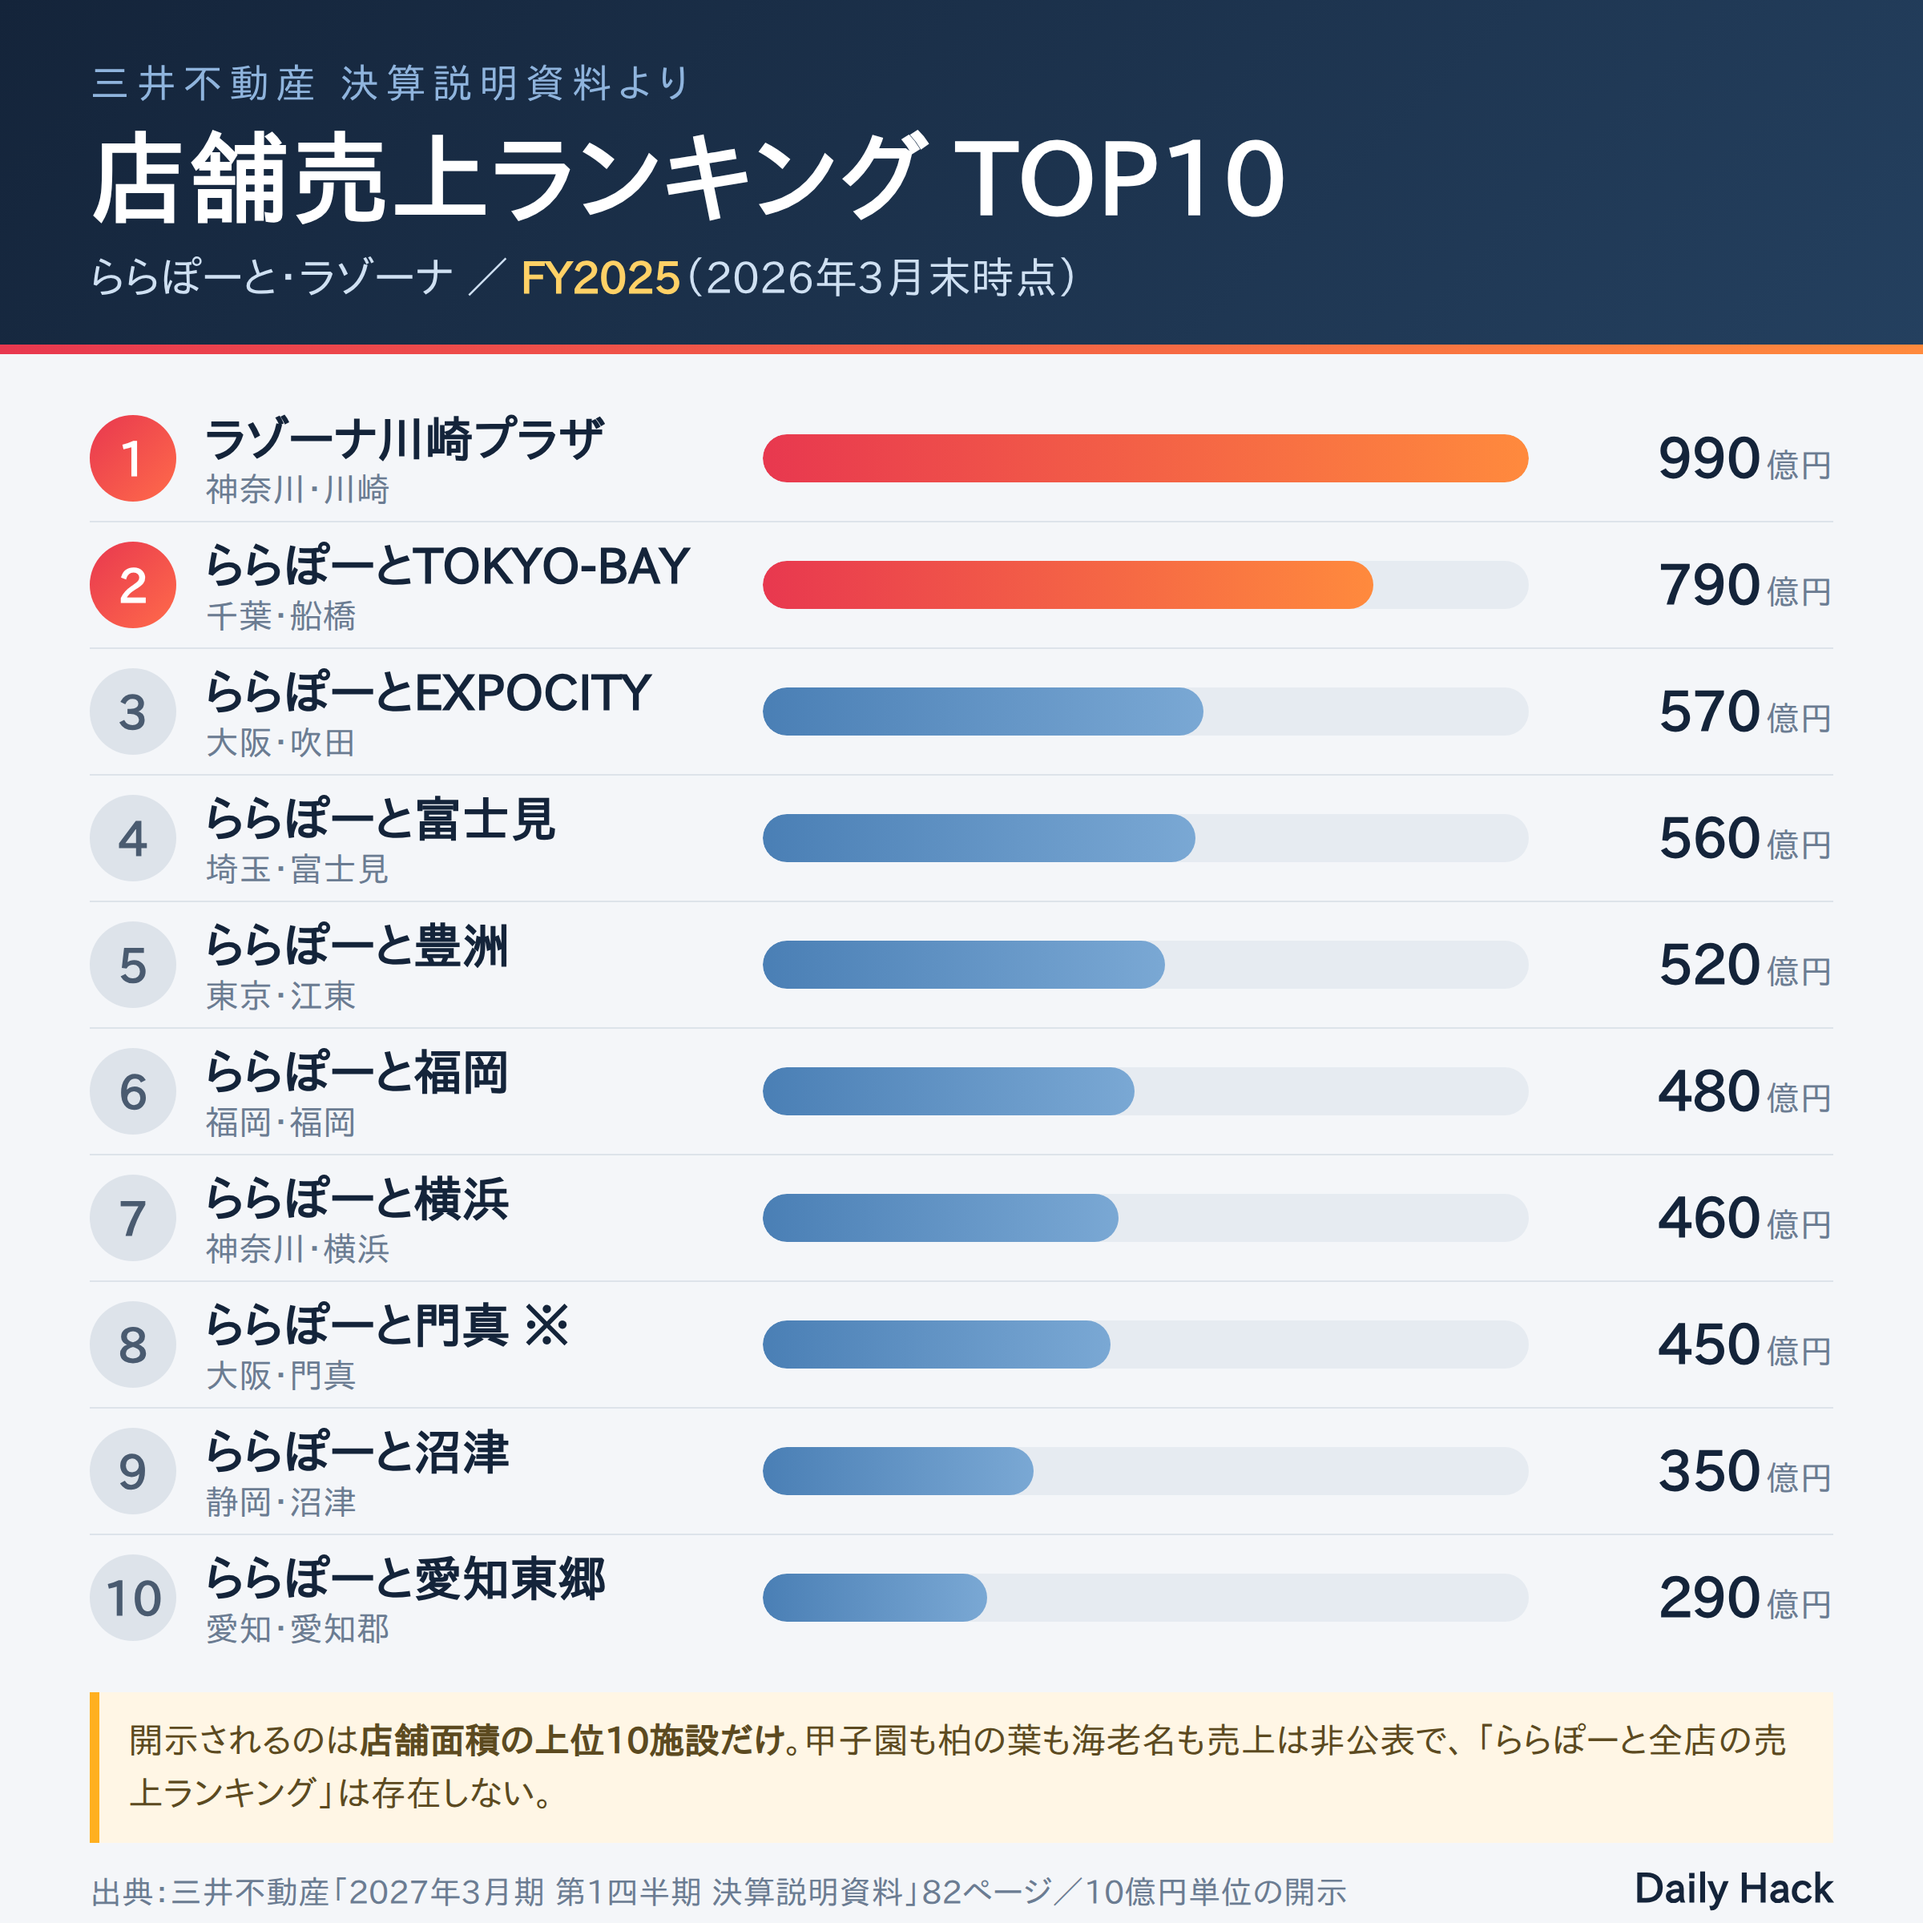
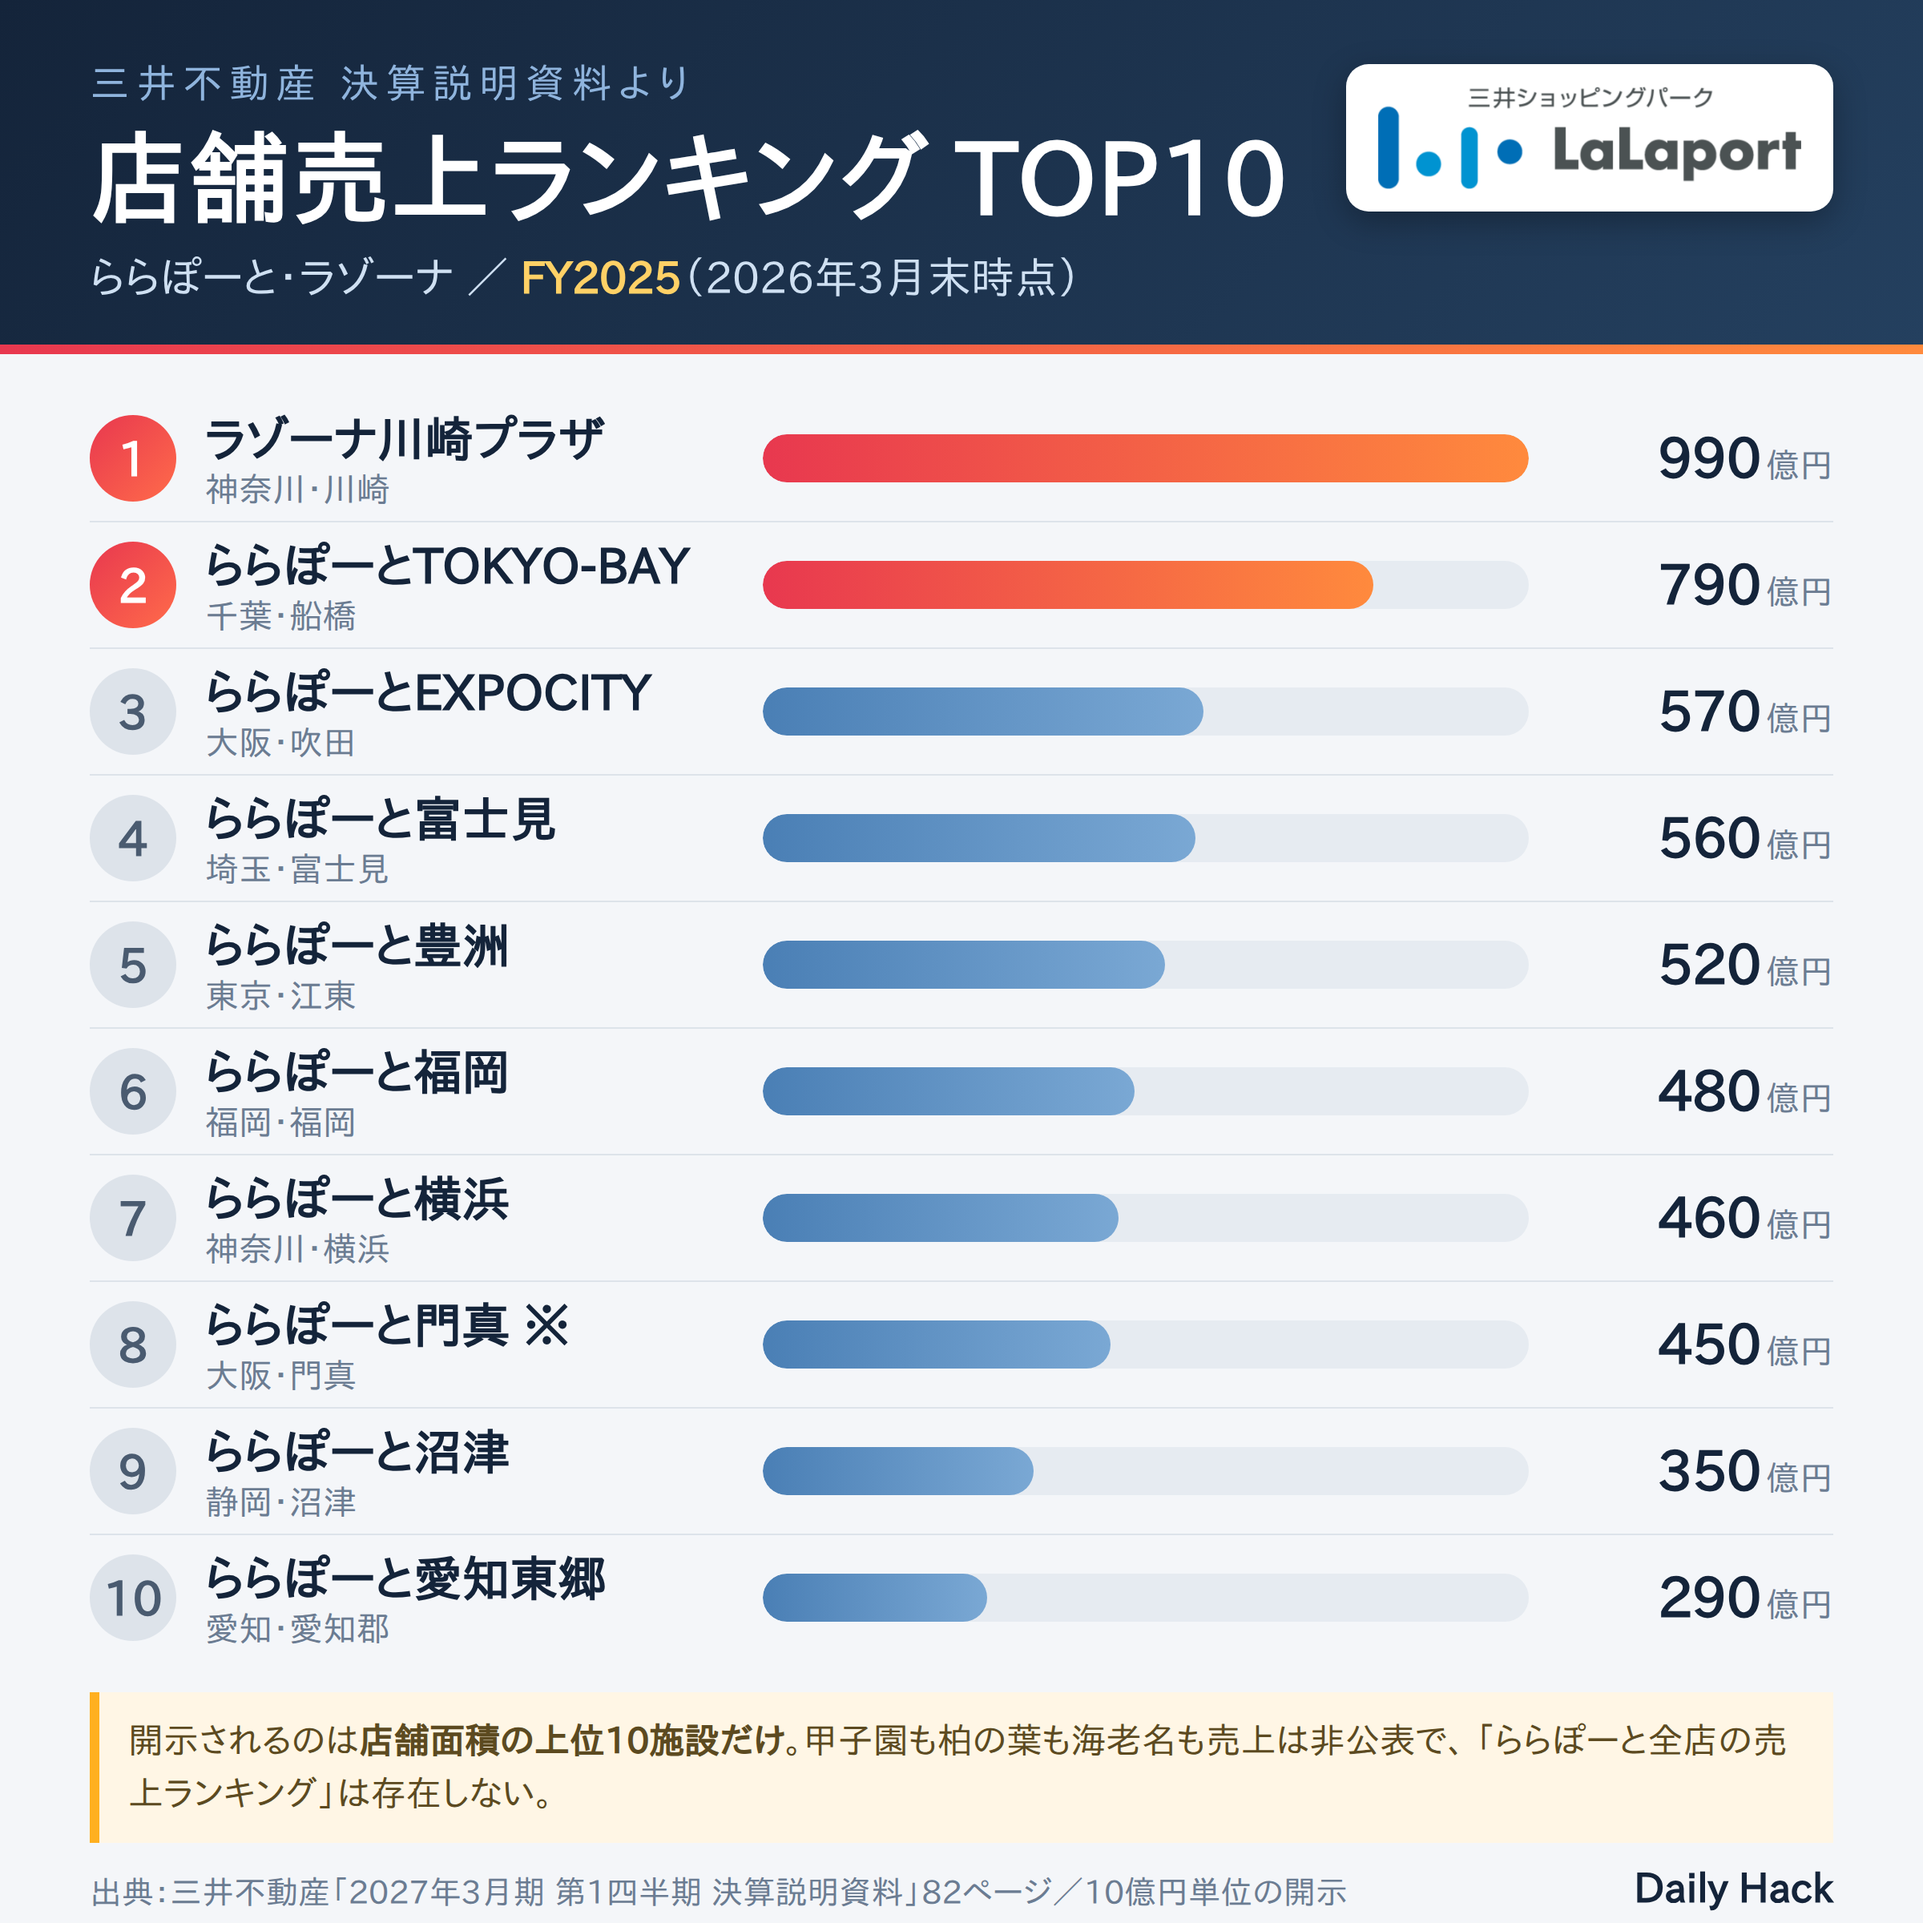
feat: ランキング画像に三井ショッピングパーク LaLaport ロゴを配置
利用者から提供された公式ロゴ画像を使用。周囲の余白（900x600 のうち
内容は 150,227-749,372）を除去した 600x146 版を作り、濃色ヘッダ上でも
成立するよう白カードに載せて右上に配置した。

再生成できるよう、元画像と生成元 HTML、レンダラも残す。

Claude-Session: https://claude.ai/code/session_01H2JQqdMCeKNiMVUTrAyX2t

Changed region(s): [[0.6875, 0.0312, 0.9688, 0.125]]

diff --git a/scripts/social/lalaport-guide-2026/ranking.html b/scripts/social/lalaport-guide-2026/ranking.html
@@ -16,6 +16,14 @@
     content: ""; position: absolute; left: 0; right: 0; bottom: 0;
     height: 6px; background: linear-gradient(90deg, #e8384f 0%, #ff8a3d 100%);
   }
+  /* 三井ショッピングパーク LaLaport 公式ロゴ。濃色ヘッダに載せるため白カードに置く。 */
+  .logo {
+    position: absolute; right: 56px; top: 40px;
+    background: #fff; border-radius: 14px; padding: 14px 20px;
+    box-shadow: 0 6px 20px rgba(0,0,0,.3);
+  }
+  .logo img { display: block; width: 264px; height: auto; }
+
   .kicker { font-size: 25px; letter-spacing: .16em; color: #8fb4dd; margin-bottom: 12px; }
   h1 { font-size: 62px; font-weight: bold; letter-spacing: .01em; line-height: 1.12; }
   .sub { margin-top: 14px; font-size: 27px; color: #cfe0f2; }
@@ -56,6 +64,9 @@
 </style>
 
 <header>
+  <div class="logo">
+    <img src="../../../public/images/lalaport-guide-2026/social/logo-lalaport.png" alt="三井ショッピングパーク LaLaport">
+  </div>
   <div class="kicker">三井不動産 決算説明資料より</div>
   <h1>店舗売上ランキング TOP10</h1>
   <div class="sub">ららぽーと・ラゾーナ ／ <b>FY2025</b>（2026年3月末時点）</div>

diff --git a/docs/session-handoff.md b/docs/session-handoff.md
@@ -33,6 +33,8 @@
 
 <!-- 新しい記録がこの下に追加される（新しいものが上） -->
 
+### 2026-08-11 — ランキング画像に公式ららぽーとロゴを右上配置（提供素材を余白除去して使用）
+
 ### 2026-08-11 — 依頼された2枚（売上ランキング正方形／全国マップ）を作成しブランチに保存
 
 次のアクション:
